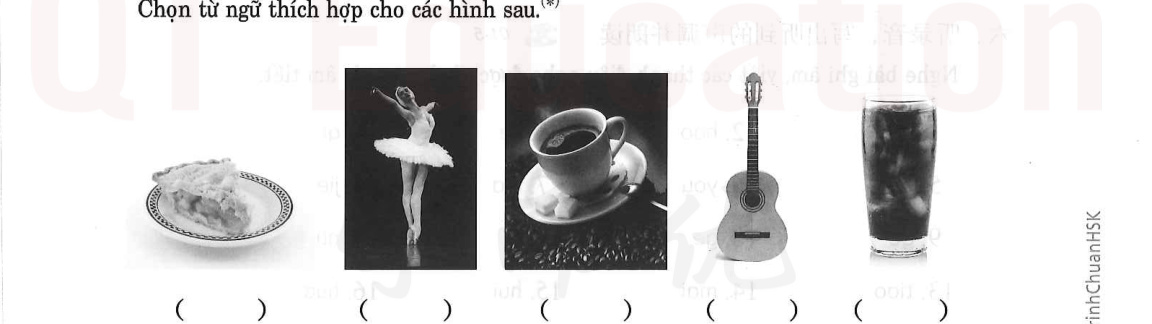
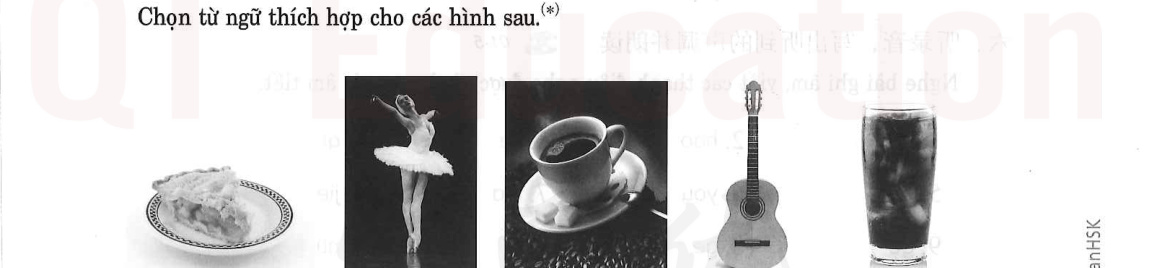
Nâng cấp giao diện bài tập

diff --git a/src/components/ExerciseSection.jsx b/src/components/ExerciseSection.jsx
@@ -19,16 +19,12 @@ const ExerciseSection = ({ levelId = "HSK 1" }) => {
     setView('QUIZ');
   };
 
-  const handleAnswer = (answer) => {
-    setUserAnswers({ ...userAnswers, [currentIndex]: answer });
+  const handleAnswerSection = (index, answer) => {
+    setUserAnswers({ ...userAnswers, [index]: answer });
   };
 
-  const nextQuestion = () => {
-    if (currentIndex < activeSection.questions.length - 1) {
-      setCurrentIndex(currentIndex + 1);
-    } else {
-      setView('RESULT');
-    }
+  const handleAnswer = (answer) => {
+    setUserAnswers({ ...userAnswers, [currentIndex]: answer });
   };
 
   const calculateScore = () => {
@@ -80,104 +76,138 @@ const ExerciseSection = ({ levelId = "HSK 1" }) => {
     );
   }
 
-  if (view === 'QUIZ') {
-    const question = activeSection.questions[currentIndex];
-    const progress = ((currentIndex + 1) / activeSection.questions.length) * 100;
+  if (view === 'QUIZ' && activeSection) {
+    const totalQuestions = activeSection.questions.length;
+    const answeredCount = Object.keys(userAnswers).length;
+    const progress = (answeredCount / totalQuestions) * 100;
 
     return (
-      <div className="max-w-3xl mx-auto space-y-8 animate-in fade-in slide-in-from-right-8 duration-500">
-        {/* Progress Header */}
-        <div className="flex flex-col gap-4">
-          <div className="flex items-center justify-between px-2">
-            <button onClick={() => setView('LIST')} className="text-slate-400 hover:text-slate-800 font-bold text-xs uppercase tracking-widest flex items-center gap-2">
-              <span>←</span> Thoát
+      <div className="max-w-4xl mx-auto space-y-8 animate-in fade-in slide-in-from-bottom-8 duration-700">
+        {/* Sticky Header with Progress */}
+        <div className="sticky top-4 z-20 bg-white/80 backdrop-blur-xl border-2 border-slate-100 rounded-[2rem] p-4 shadow-xl shadow-slate-200/50 flex flex-col md:flex-row items-center justify-between gap-4">
+          <div className="flex items-center gap-4">
+            <button 
+              onClick={() => setView('LIST')} 
+              className="w-10 h-10 rounded-full bg-slate-50 flex items-center justify-center text-slate-400 hover:bg-slate-900 hover:text-white transition-all"
+            >
+              ←
             </button>
-            <span className="text-xs font-black text-blue-500 uppercase tracking-widest">
-              Câu {currentIndex + 1} / {activeSection.questions.length}
-            </span>
-          </div>
-          <div className="h-3 w-full bg-slate-100 rounded-full overflow-hidden">
-            <div 
-              className="h-full bg-blue-500 transition-all duration-500 ease-out" 
-              style={{ width: `${progress}%` }} 
-            />
-          </div>
-        </div>
-
-        {/* Question Card */}
-        <div className="bg-white rounded-[3rem] border-2 border-slate-100 p-8 md:p-12 shadow-sm space-y-10">
-          <div className="space-y-4">
-            <h4 className="text-blue-400 font-black text-xs uppercase tracking-widest">{activeSection.title}</h4>
-            <h2 className="text-2xl md:text-3xl font-bold text-slate-800 leading-tight">{question.instruction}</h2>
-          </div>
-
-          <div className="space-y-8">
-            {/* Audio Section */}
-            {question.audio_url && (
-              <div className="flex flex-col items-center gap-4 py-8 bg-blue-50/50 rounded-[2rem] border-2 border-dashed border-blue-100">
-                <button 
-                  onClick={() => audioRef.current.play()}
-                  className="w-20 h-20 rounded-full bg-blue-500 text-white flex items-center justify-center text-3xl hover:scale-110 hover:shadow-lg hover:shadow-blue-500/20 active:scale-95 transition-all"
-                >
-                  🔊
-                </button>
-                <audio ref={audioRef} src={`/audio/${question.audio_url}`} />
-                <span className="text-[10px] font-bold text-blue-400 uppercase tracking-[0.2em]">Nhấn để nghe câu hỏi</span>
-              </div>
-            )}
-
-            {/* Image Section */}
-            {question.image_url && (
-              <div className="relative group max-w-sm mx-auto overflow-hidden rounded-[2.5rem] border-4 border-white shadow-xl shadow-slate-200/50">
-                <img src={`/images/${question.image_url}`} alt="question" className="w-full h-auto object-cover group-hover:scale-105 transition-transform duration-700" />
-              </div>
-            )}
-
-            {/* Content (Text) */}
-            {question.content && (
-              <div className="text-center py-6">
-                <p className="text-4xl md:text-5xl font-black text-slate-800 tracking-tight">{question.content}</p>
-              </div>
-            )}
-
-            {/* Options */}
-            <div className="grid grid-cols-1 sm:grid-cols-2 gap-4 pt-6">
-              {(question.options || ["TRUE", "FALSE"]).map((opt, i) => {
-                const isSelected = userAnswers[currentIndex] === (question.question_type === 'TRUE_FALSE' ? opt : opt.charAt(0));
-                
-                return (
-                  <button
-                    key={i}
-                    onClick={() => handleAnswer(question.question_type === 'TRUE_FALSE' ? opt : opt.charAt(0))}
-                    className={`p-6 rounded-[2rem] border-2 font-bold transition-all duration-300 text-left flex items-center gap-4 ${
-                      isSelected 
-                        ? 'bg-blue-500 border-blue-500 text-white shadow-xl shadow-blue-500/20 -translate-y-1' 
-                        : 'bg-white border-slate-100 text-slate-600 hover:border-blue-200 hover:bg-slate-50'
-                    }`}
-                  >
-                    <span className={`w-8 h-8 rounded-xl flex items-center justify-center text-sm ${isSelected ? 'bg-white/20' : 'bg-slate-100'}`}>
-                      {question.question_type === 'TRUE_FALSE' ? (opt === 'TRUE' ? '✓' : '✗') : opt.charAt(0)}
-                    </span>
-                    <span className="text-lg">{question.question_type === 'TRUE_FALSE' ? (opt === 'TRUE' ? 'Đúng' : 'Sai') : opt}</span>
-                  </button>
-                );
-              })}
+            <div>
+              <h3 className="font-black text-slate-800 text-sm uppercase tracking-wider">{activeLesson.title}</h3>
+              <p className="text-[10px] font-bold text-blue-500 uppercase tracking-widest">{activeSection.title}</p>
             </div>
           </div>
 
-          <div className="pt-8 flex justify-center">
-            <button 
-              disabled={userAnswers[currentIndex] === undefined}
-              onClick={nextQuestion}
-              className={`px-12 py-5 rounded-[2rem] font-bold text-sm uppercase tracking-[0.2em] transition-all duration-300 shadow-xl ${
-                userAnswers[currentIndex] === undefined 
-                  ? 'bg-slate-100 text-slate-400 cursor-not-allowed opacity-50' 
-                  : 'bg-slate-900 text-white hover:bg-blue-600 shadow-blue-500/10'
+          <div className="flex items-center gap-6 w-full md:w-auto">
+            <div className="flex-1 md:w-48 h-2 bg-slate-100 rounded-full overflow-hidden">
+              <div 
+                className="h-full bg-blue-500 transition-all duration-700 ease-out" 
+                style={{ width: `${progress}%` }} 
+              />
+            </div>
+            <span className="text-xs font-black text-slate-400 whitespace-nowrap uppercase tracking-widest">
+              Đã làm {answeredCount}/{totalQuestions}
+            </span>
+          </div>
+        </div>
+
+        {/* Master Audio Player (Only for LISTENING) */}
+        {activeSection.type === 'LISTENING' && activeSection.questions[0]?.audio_url && (
+          <div className="bg-gradient-to-br from-blue-600 to-indigo-700 rounded-[2.5rem] p-8 text-white shadow-2xl shadow-blue-200 overflow-hidden relative group">
+            <div className="absolute top-0 right-0 w-64 h-64 bg-white/10 rounded-full -mr-32 -mt-32 blur-3xl group-hover:scale-110 transition-transform duration-1000" />
+            <div className="relative z-10 flex flex-col items-center gap-6 text-center">
+              <div className="space-y-2">
+                <span className="text-[10px] font-bold uppercase tracking-[0.3em] opacity-70">Nghe toàn bộ đoạn hội thoại</span>
+                <h4 className="text-xl font-bold">Phần nghe HSK 1 ({activeSection.questions[0].audio_url})</h4>
+              </div>
+              
+              <button 
+                onClick={() => audioRef.current.play()}
+                className="w-24 h-24 rounded-full bg-white text-blue-600 flex items-center justify-center text-4xl shadow-2xl hover:scale-110 active:scale-95 transition-all duration-300 group/play"
+              >
+                <span className="group-hover/play:scale-110 transition-transform">▶</span>
+              </button>
+              
+              <audio ref={audioRef} src={`/audio/${activeSection.questions[0].audio_url}`} />
+              <p className="text-xs opacity-60 font-medium max-w-xs">Nhấn nút Play và theo dõi các hình ảnh bên dưới để chọn Đúng hoặc Sai.</p>
+            </div>
+          </div>
+        )}
+
+        {/* Questions Grid */}
+        <div className="grid grid-cols-1 md:grid-cols-2 gap-6 pb-20">
+          {activeSection.questions.map((q, idx) => (
+            <div 
+              key={idx} 
+              className={`bg-white rounded-[2.5rem] border-2 transition-all duration-500 p-6 space-y-6 ${
+                userAnswers[idx] !== undefined ? 'border-blue-100 shadow-lg shadow-blue-500/5' : 'border-slate-100 shadow-sm'
               }`}
             >
-              {currentIndex < activeSection.questions.length - 1 ? 'Tiếp tục →' : 'Xem kết quả ✨'}
-            </button>
-          </div>
+              <div className="flex items-center justify-between">
+                <span className="w-8 h-8 rounded-xl bg-slate-50 flex items-center justify-center text-xs font-black text-slate-400">
+                  {idx + 1}
+                </span>
+                {userAnswers[idx] !== undefined && (
+                  <span className="text-[10px] font-bold text-emerald-500 uppercase tracking-widest flex items-center gap-1 animate-in fade-in slide-in-from-right-2">
+                    <span className="w-2 h-2 rounded-full bg-emerald-500" /> Đã trả lời
+                  </span>
+                )}
+              </div>
+
+              {q.image_url && (
+                <div className="aspect-video rounded-3xl overflow-hidden bg-slate-50 border-2 border-slate-50 group">
+                  <img 
+                    src={`/images/${q.image_url}`} 
+                    alt={`Question ${idx + 1}`} 
+                    className="w-full h-full object-cover group-hover:scale-110 transition-transform duration-1000" 
+                  />
+                </div>
+              )}
+
+              {q.content && (
+                <div className="text-center py-2">
+                   <p className="text-3xl font-black text-slate-800 tracking-tight">{q.content}</p>
+                </div>
+              )}
+
+              <div className="flex gap-3">
+                {["TRUE", "FALSE"].map((opt) => {
+                  const isSelected = userAnswers[idx] === opt;
+                  return (
+                    <button
+                      key={opt}
+                      onClick={() => handleAnswerSection(idx, opt)}
+                      className={`flex-1 py-4 rounded-2xl border-2 font-black text-sm uppercase tracking-widest transition-all duration-300 ${
+                        isSelected
+                          ? opt === 'TRUE' 
+                            ? 'bg-emerald-500 border-emerald-500 text-white shadow-lg shadow-emerald-500/20' 
+                            : 'bg-rose-500 border-rose-500 text-white shadow-lg shadow-rose-500/20'
+                          : 'bg-slate-50 border-transparent text-slate-400 hover:bg-slate-100 hover:text-slate-600'
+                      }`}
+                    >
+                      {opt === 'TRUE' ? '✓ Đúng' : '✗ Sai'}
+                    </button>
+                  );
+                })}
+              </div>
+            </div>
+          ))}
+        </div>
+
+        {/* Floating Submit Button */}
+        <div className="fixed bottom-8 left-0 right-0 z-30 px-6 flex justify-center">
+          <button 
+            disabled={answeredCount < totalQuestions}
+            onClick={() => setView('RESULT')}
+            className={`px-12 py-5 rounded-full font-black text-sm uppercase tracking-[0.2em] transition-all duration-500 shadow-2xl flex items-center gap-4 ${
+              answeredCount < totalQuestions
+                ? 'bg-white border-2 border-slate-100 text-slate-300 cursor-not-allowed' 
+                : 'bg-slate-900 text-white hover:bg-blue-600 hover:scale-105 active:scale-95 shadow-blue-500/20'
+            }`}
+          >
+            <span>Nộp bài & Xem kết quả</span>
+            <span className="text-xl">✨</span>
+          </button>
         </div>
       </div>
     );

diff --git a/process_hsk1_workbook.py b/process_hsk1_workbook.py
@@ -6,37 +6,48 @@ WORKBOOK_PDF = r"D:\Tài liệu tiếng Trung\HSK1\2.SÁCH BÀI TẬP HSK1.pdf"
 OUTPUT_DIR = "public/images/workbook/hsk1"
 LOG_FILE = "workbook_mapping.txt"
 
+# Cấu hình lề (để loại bỏ header/footer)
+HEADER_MARGIN = 80  # Khoảng cách từ đỉnh trang xuống câu 1
+FOOTER_MARGIN = 60  # Khoảng cách từ câu cuối xuống đáy trang
+
 def ensure_dirs():
     if not os.path.exists(OUTPUT_DIR):
         os.makedirs(OUTPUT_DIR)
 
 def process_lesson_1():
     print("Slicing Lesson 1 (Page 7-10)...")
+    if not os.path.exists(WORKBOOK_PDF):
+        print(f"ERROR: Cannot find PDF at {WORKBOOK_PDF}")
+        return
+
     doc = fitz.open(WORKBOOK_PDF)
-    
-    # Ở HSK 1 Workbook:
-    # Trang 7: Phần nghe 1 (5 câu T/F)
-    # Trang 8: Phần nghe 2 (5 câu Match A-E)
-    # Trang 11: Phần đọc 1 (5 câu T/F)
-    # Trang 12: Phần đọc 2 (5 câu Match A-E)
     
     # 1. Cắt trang Nghe 1 (Trang 7 - Index 6) -> 5 câu hỏi dọc
     page_7 = doc[6]
     h7, w7 = page_7.rect.height, page_7.rect.width
+    content_h = h7 - HEADER_MARGIN - FOOTER_MARGIN
+    
     for i in range(5):
-        rect = fitz.Rect(0, (h7/5)*i, w7, (h7/5)*(i+1))
+        y0 = HEADER_MARGIN + (content_h / 5) * i
+        y1 = HEADER_MARGIN + (content_h / 5) * (i + 1)
+        rect = fitz.Rect(0, y0, w7, y1)
         pix = page_7.get_pixmap(matrix=fitz.Matrix(2, 2), clip=rect)
         pix.save(os.path.join(OUTPUT_DIR, f"hsk1_l1_l_p1_q{i+1}.jpg"))
 
     # 2. Cắt trang Đọc 1 (Trang 11 - Index 10) -> 5 câu hỏi dọc
+    # Lưu ý: Trong file PDF thật, bài đọc 1 thường nằm cách bài nghe vài trang
     page_11 = doc[10]
     h11, w11 = page_11.rect.height, page_11.rect.width
+    content_h11 = h11 - HEADER_MARGIN - FOOTER_MARGIN
+    
     for i in range(5):
-        rect = fitz.Rect(0, (h11/5)*i, w11, (h11/5)*(i+1))
+        y0 = HEADER_MARGIN + (content_h11 / 5) * i
+        y1 = HEADER_MARGIN + (content_h11 / 5) * (i + 1)
+        rect = fitz.Rect(0, y0, w11, y1)
         pix = page_11.get_pixmap(matrix=fitz.Matrix(2, 2), clip=rect)
         pix.save(os.path.join(OUTPUT_DIR, f"hsk1_l1_r_p1_q{i+1}.jpg"))
 
-    print("  Successfully sliced Lesson 1 questions.")
+    print("  Successfully sliced Lesson 1 questions with margins.")
     doc.close()
 
 if __name__ == "__main__":
